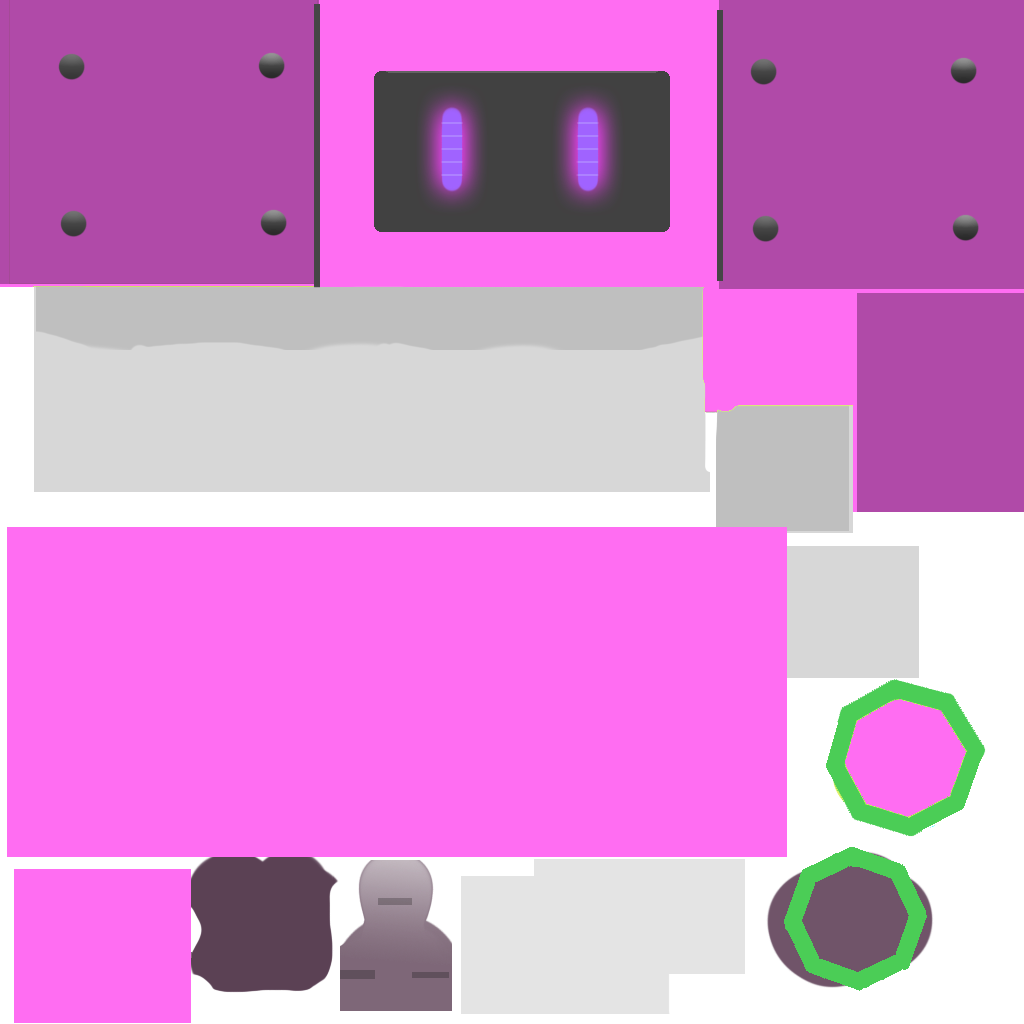
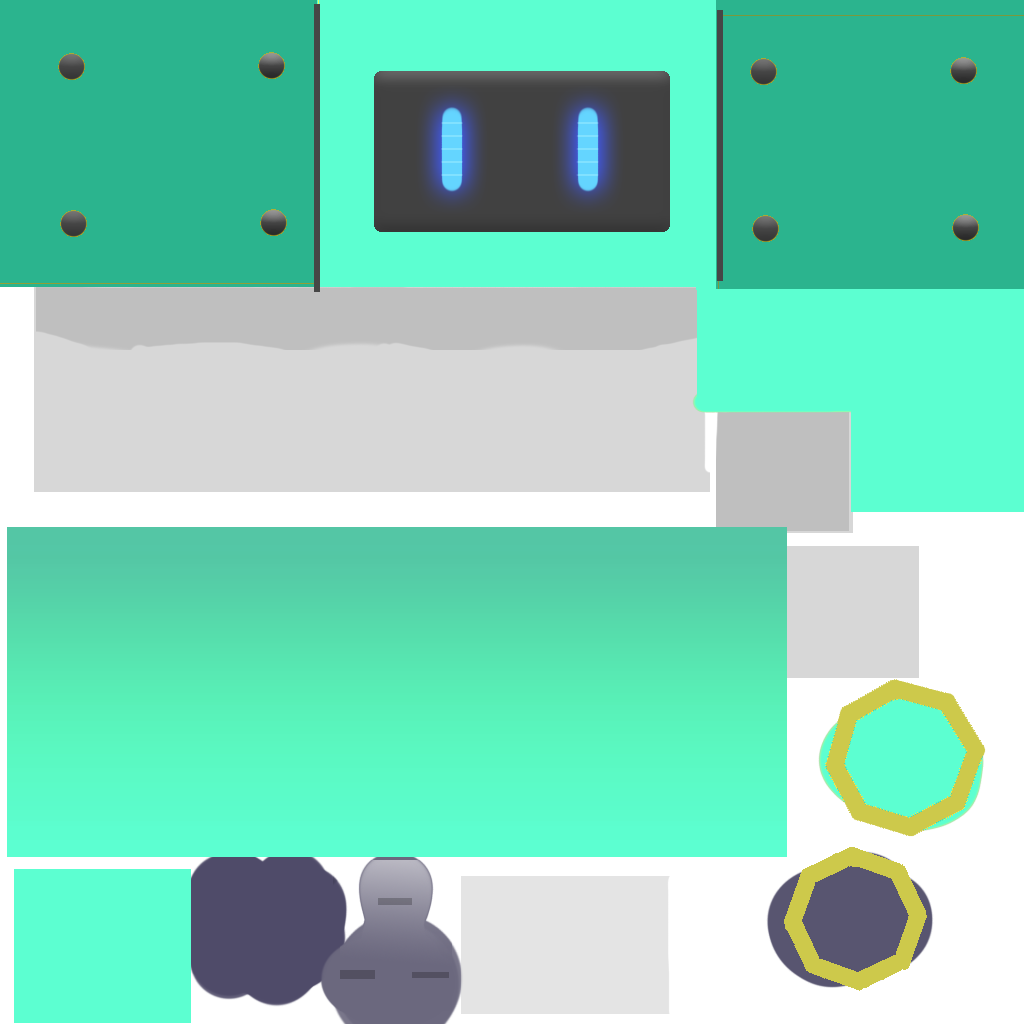
カラーが増えたのでテクスチャの追加、UIの変更

diff --git a/ES Game Library/ES Game Library/MyClass/Scenes/SelectScene/SelectScene.h b/ES Game Library/ES Game Library/MyClass/Scenes/SelectScene/SelectScene.h
@@ -40,7 +40,7 @@ private:
 	bool _left_arrow_flag[PLAYER_COUNT_MAX];
 	bool _right_arrow_flag[PLAYER_COUNT_MAX];
 	bool _select_complete_flag[PLAYER_COUNT_MAX];
-	bool _game_start_flag = true;
+	bool _game_start_flag = false;
 	enum
 	{
 		RED,
